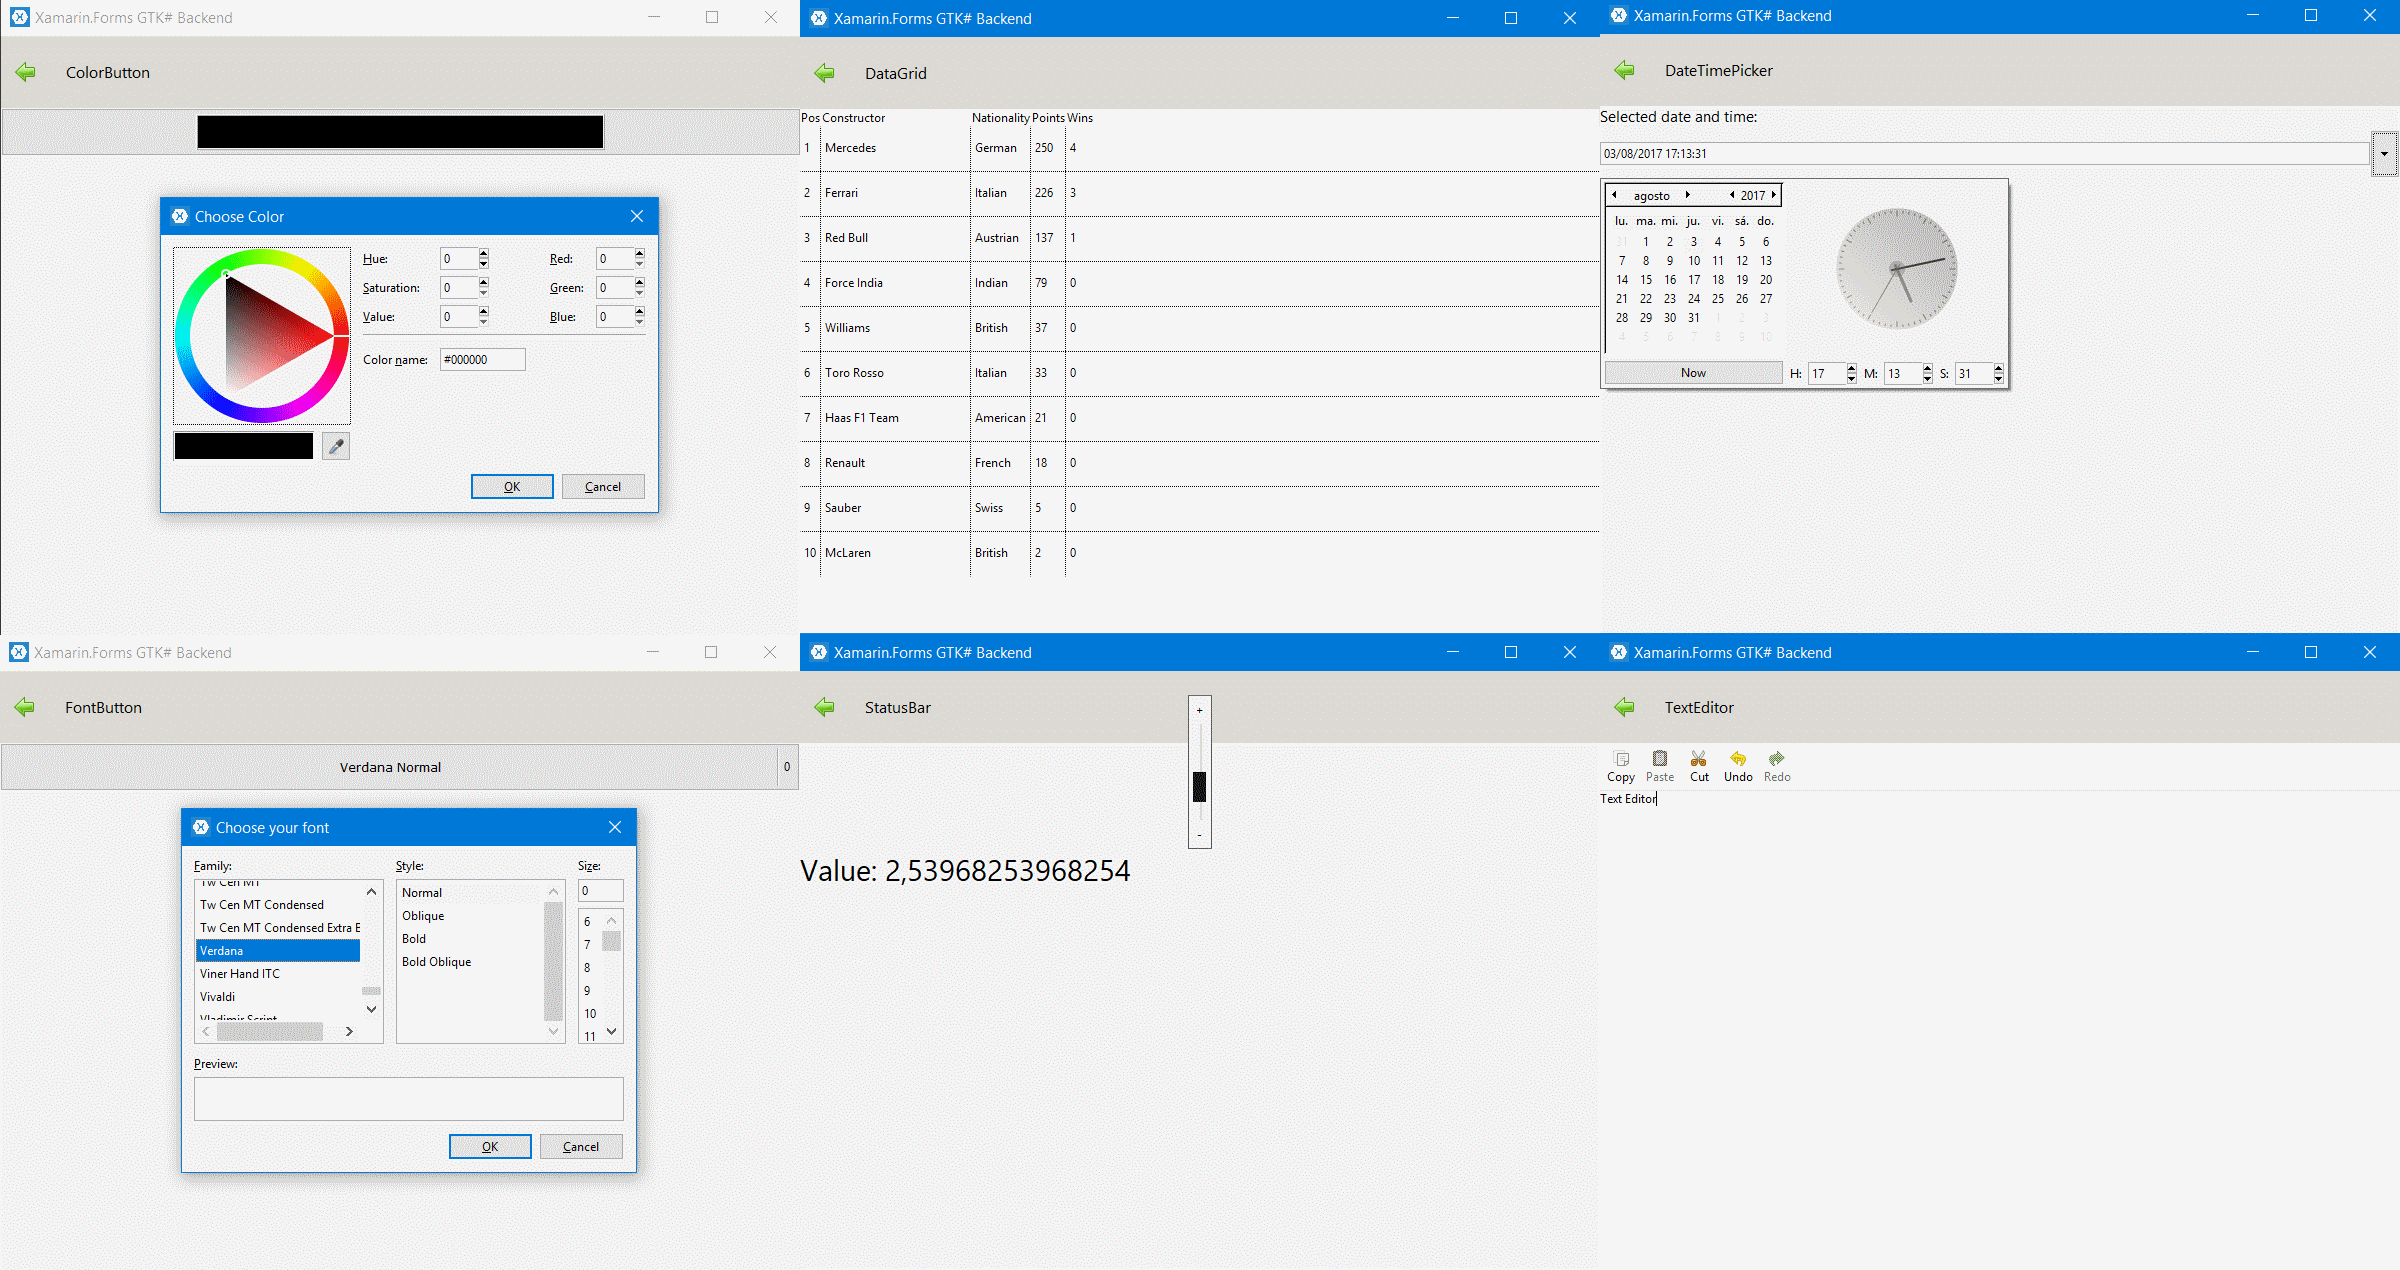
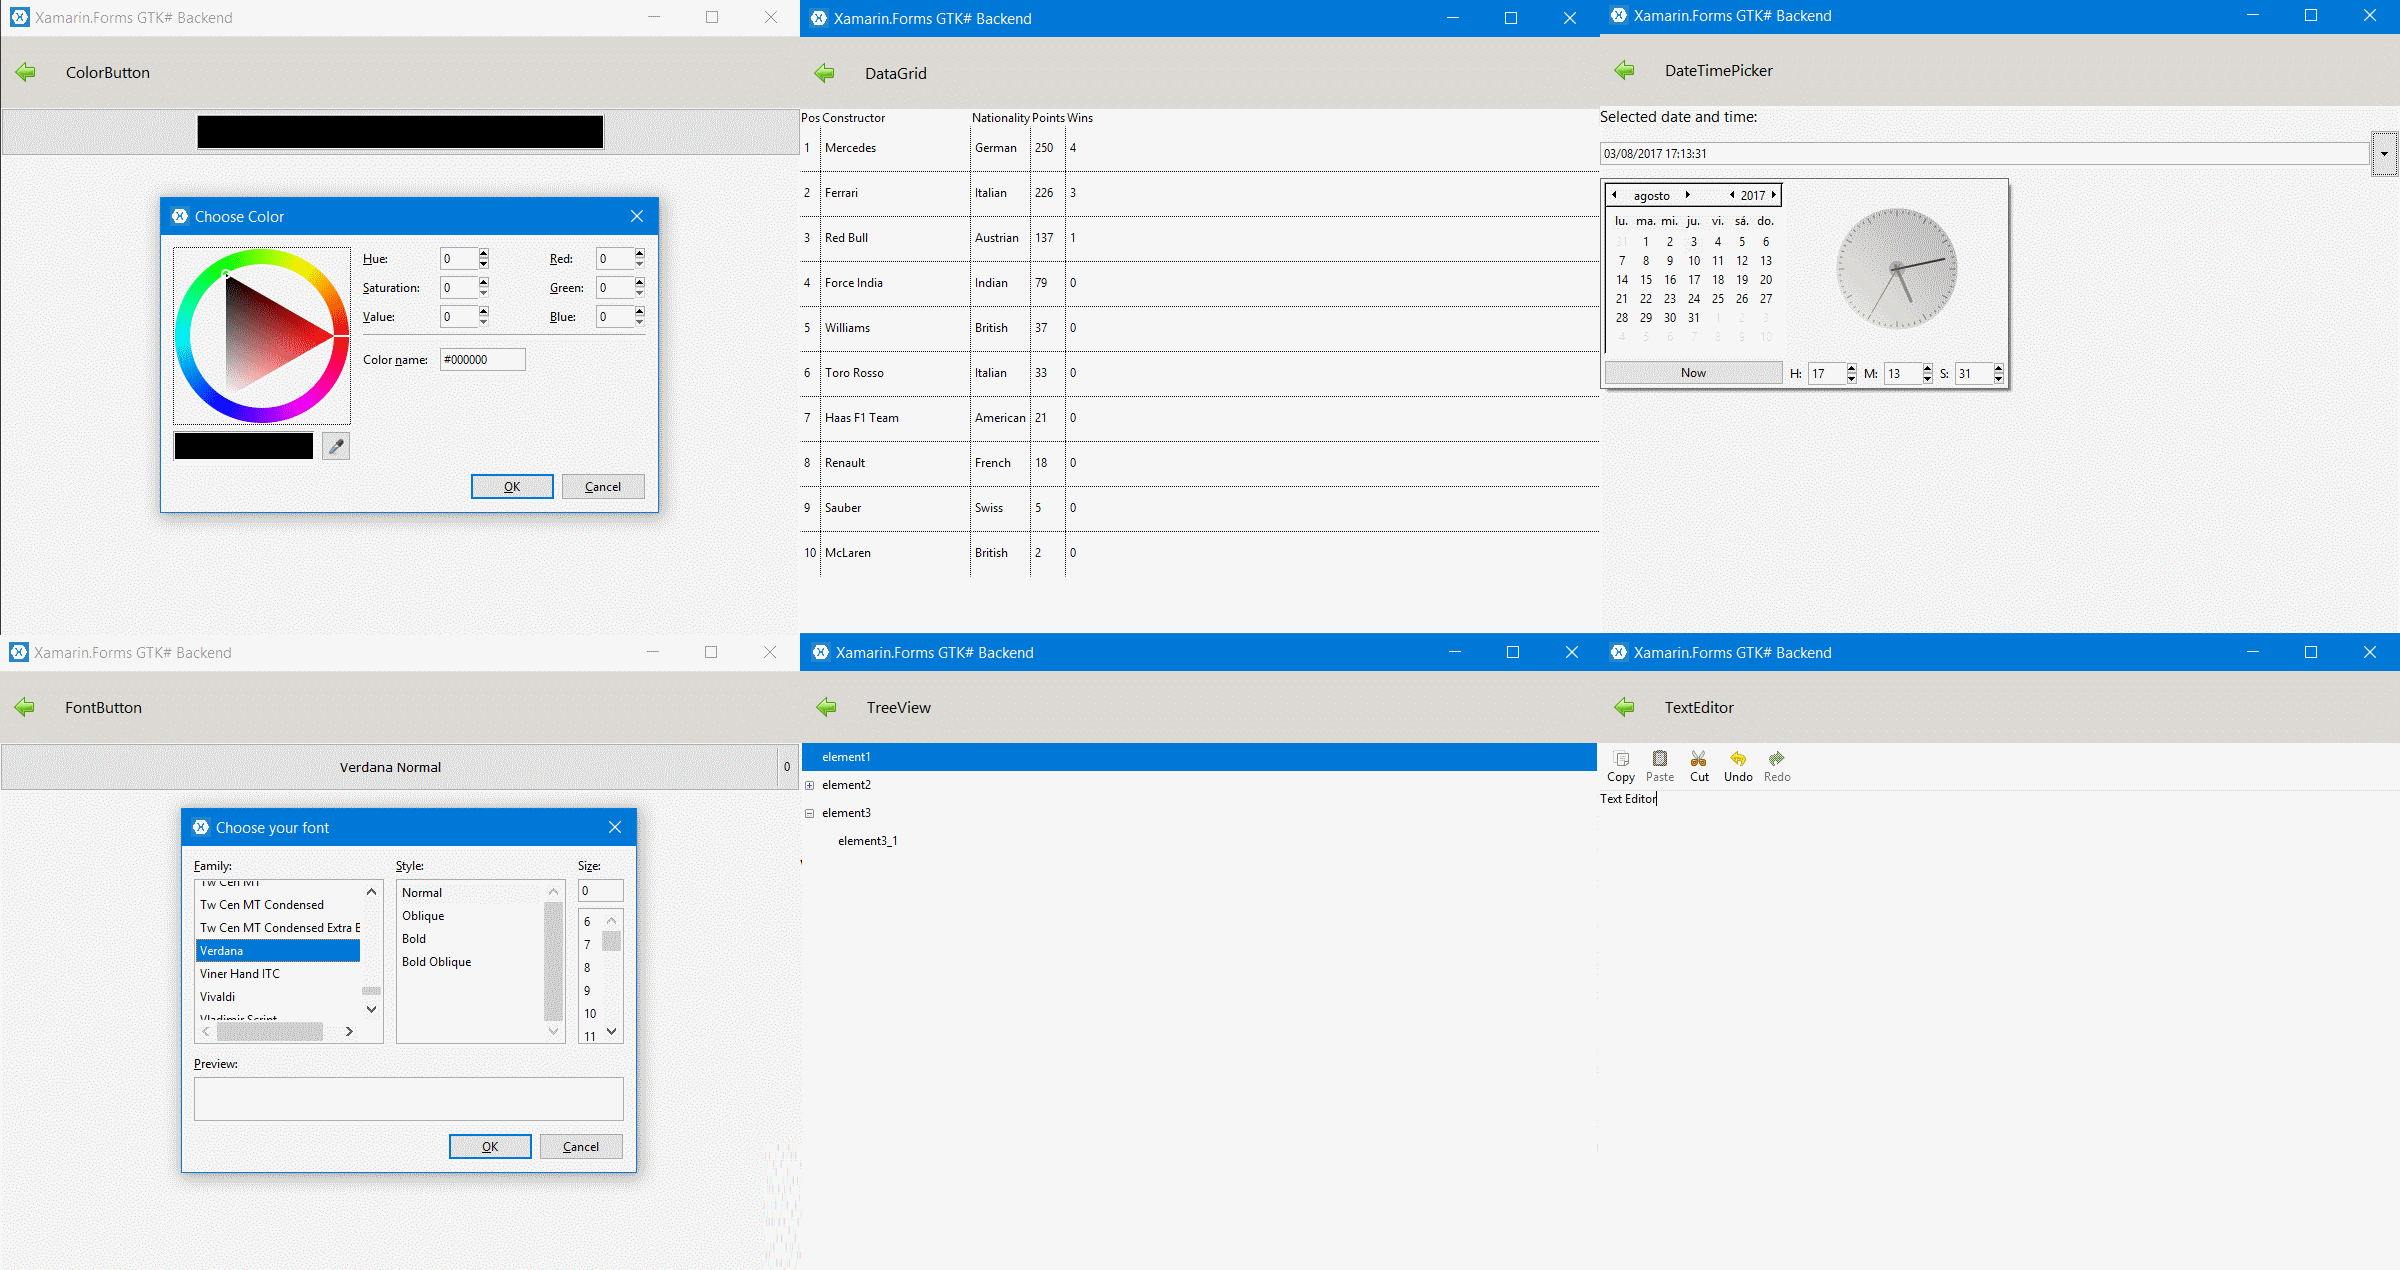
Added more screenshots

Changed region(s): [[0.3125, 0.5528, 0.6875, 1.0], [0.3438, 0.4913, 0.4375, 0.522]]

diff --git a/docs/Controls/DataGrid.md b/docs/Controls/DataGrid.md
@@ -8,3 +8,5 @@ Features:
 - Configurable row height.
 - Configurable column widths.
 - Customizable colors.
+
+![](../../images/datagrid.png)

diff --git a/docs/Controls/GridSplitter.md b/docs/Controls/GridSplitter.md
@@ -1,3 +1,5 @@
 # GridSplitter
 
 A control that **redistributes space** between columns or rows.
+
+![](../../images/gridsplitter.png)

diff --git a/docs/Controls/ImageCheckBox.md b/docs/Controls/ImageCheckBox.md
@@ -1,3 +1,5 @@
 # ImageCheckBox
 
 Toggle button with **images** for every **state**.
+
+![](../../images/imagecheckbox.png)

diff --git a/docs/Controls/DateTimePicker.md b/docs/Controls/DateTimePicker.md
@@ -1,3 +1,5 @@
 # DateTimePicker
 
 Allows the user to select a **date and time**.
+
+![](../../images/datetimepicker.png)

diff --git a/docs/Controls/FileButton.md b/docs/Controls/FileButton.md
@@ -1,3 +1,5 @@
 # FileButton
 
 A button to launch a **file selection dialog**.
+
+![](../../images/filebutton.png)

diff --git a/docs/Controls/FontButton.md b/docs/Controls/FontButton.md
@@ -1,3 +1,5 @@
 # FontButton
 
 A button to launch a **font selection dialog**.
+
+![](../../images/fontbutton.png)

diff --git a/docs/Controls/Expander.md b/docs/Controls/Expander.md
@@ -1,3 +1,5 @@
 # Expander
 
 A container which can **hide** its **child**.
+
+![](../../images/expander.png)

diff --git a/docs/Controls/HyperLinkButton.md b/docs/Controls/HyperLinkButton.md
@@ -1,3 +1,5 @@
 # HyperLinkButton
 
 A button bound to a **URL**.
+
+![](../../images/hyperlinkbutton.png)

diff --git a/docs/Controls/ScaleButton.md b/docs/Controls/ScaleButton.md
@@ -1,3 +1,5 @@
 # ScaleButton 
 
 A button which pops up a **scale**.
+
+![](../../images/scalebutton.png)

diff --git a/docs/Controls/ColorPicker.md b/docs/Controls/ColorPicker.md
@@ -1,3 +1,5 @@
 # ColorPicker
 
 Control for choosing **color**.
+
+![](../../images/colorpicker.png)

diff --git a/docs/Controls/TreeView.md b/docs/Controls/TreeView.md
@@ -1,3 +1,5 @@
 # TreeView
 
 A control for displaying **trees**.
+
+![](../../images/treeview.png)

diff --git a/docs/Controls/TextEditor.md b/docs/Controls/TextEditor.md
@@ -1,3 +1,5 @@
 # TextEditor
 
 Text **editor** control.
+
+![](../../images/texteditor.png)
